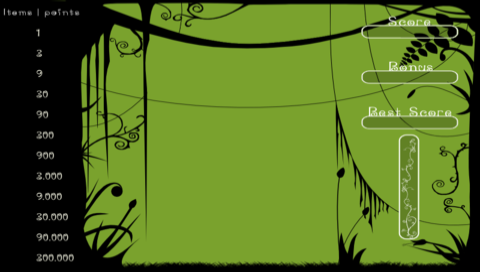
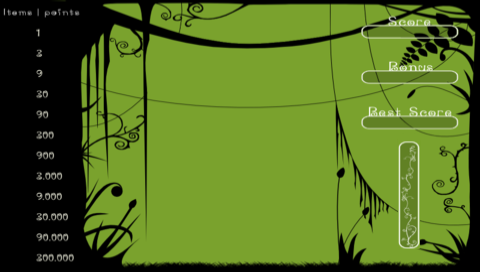
Manage progress bar draw thru ini file

Changed region(s): [[0.8125, 0.4706, 0.875, 0.9412]]

diff --git a/branches/psp/0.3beta/src/ProgressBar.cpp b/branches/psp/0.3beta/src/ProgressBar.cpp
@@ -11,6 +11,7 @@
 
 #include "ProgressBar.h"
 #include "misc.h"
+#include "IniFile.h"
 
 ProgressBar::ProgressBar()
 {
@@ -32,6 +33,12 @@ void ProgressBar::load_gfx(std::string skin)
   /*CL_Zip_Archive zip(skin);
   CL_ResourceManager gfx("progress_bar.xml", &zip, false);*/
   unload_gfx();
+  FILE * progress_bar_ini;
+  std::string progress_bar_ini_path = "skins/" + skin + "/progress_bar.ini";
+  IniFile progress_bar_resources;
+  progress_bar_ini = fopen(progress_bar_ini_path.c_str(), "r");
+  if (progress_bar_ini != NULL)
+     progress_bar_resources.read(progress_bar_ini);
 
   head     = IMG_Load_fromSkin(skin, "misc/bar-head.png"    );
   head_ok  = IMG_Load_fromSkin(skin, "misc/bar-head-ok.png" );
@@ -39,9 +46,9 @@ void ProgressBar::load_gfx(std::string skin)
   item     = IMG_Load_fromSkin(skin, "misc/bar-item.png"    );
   item_ok  = IMG_Load_fromSkin(skin, "misc/bar-item-ok.png" );
 
-  left     = 395; //CL_Integer_to_int("progress_bar/left",       &gfx);
-  head_top = 135; //CL_Integer_to_int("progress_bar/head/top",   &gfx);
-  foot_top = 245; //CL_Integer_to_int("progress_bar/foot/top",   &gfx);
+  left     = progress_bar_resources.get("left",0);//395; //CL_Integer_to_int("progress_bar/left",       &gfx);
+  head_top = progress_bar_resources.get("head_top",0);//135; //CL_Integer_to_int("progress_bar/head/top",   &gfx);
+  foot_top = progress_bar_resources.get("foot_top",0);//245; //CL_Integer_to_int("progress_bar/foot/top",   &gfx);
 
 }
 

diff --git a/branches/psp/0.3beta/src/Player.cpp b/branches/psp/0.3beta/src/Player.cpp
@@ -201,7 +201,6 @@ void Player::load_gfx(std::string skin)
     }
 
     pieces_preview_x[i-1] = piece_preview_1st_x + (piece_preview_space_col)*((int)((i-1)/piece_preview_per_col));
-    printf("pieces_preview_x[i-1] = %d\n",pieces_preview_x[i-1]);
     pieces_preview_y[i-1] = piece_preview_1st_y + (piece_preview_space_row)*((i-1)%piece_preview_per_col);
 
     if(i>3)
